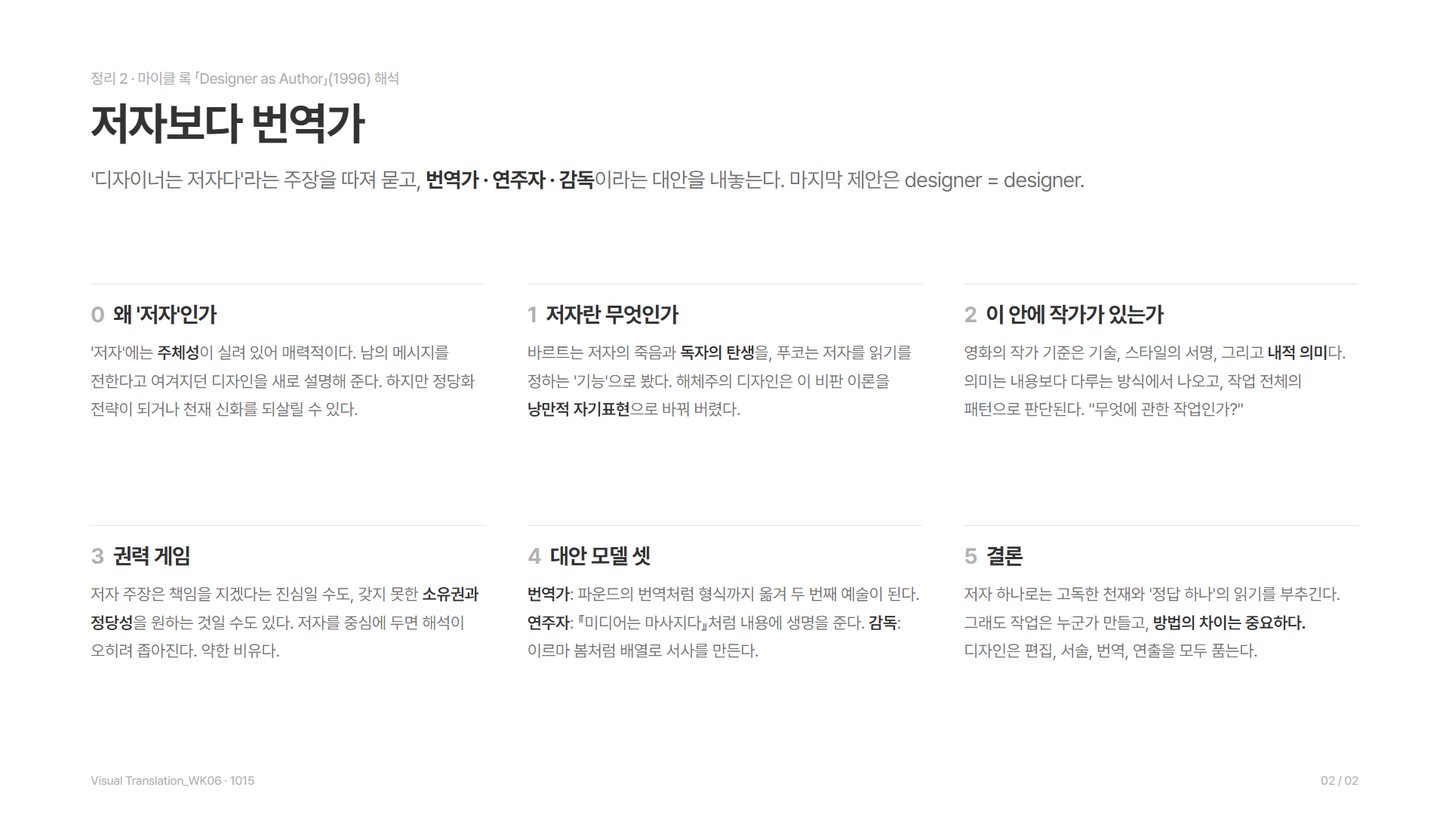
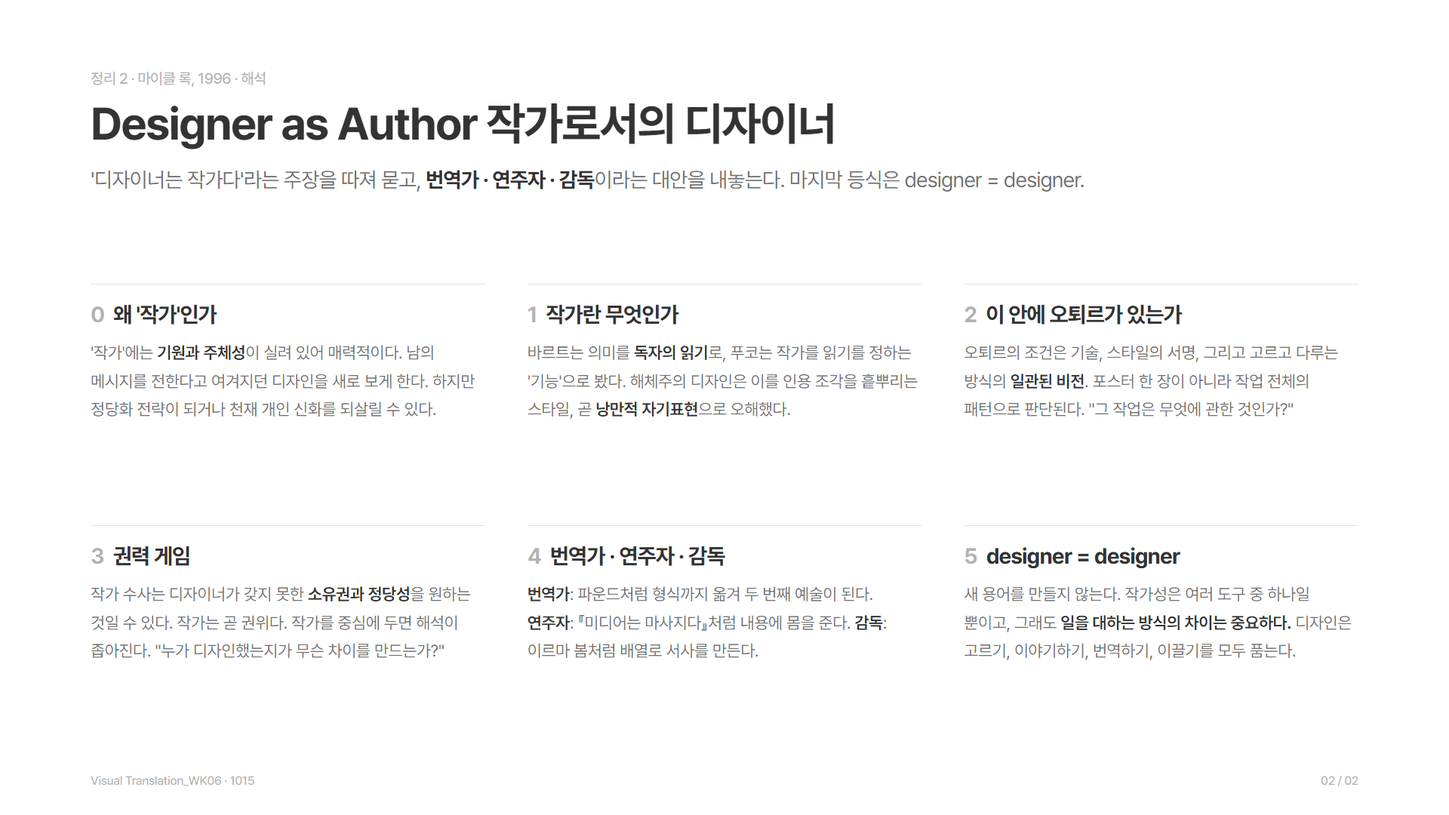
Retitle section 2 as 작가로서의 디자이너 and refine the Rock commentary
Re-read "Designer as Author" and rewrite the section-by-section
commentary with closer detail (McCoy misreading, objectivist minority,
the 1968 dilemma, Sarris's third criterion, power ploys, Rock declining
a new term). Translate author as 작가 and auteur as 오퇴르 throughout,
and re-render the section 2 image.

diff --git a/1015/index.html b/1015/index.html
@@ -23,7 +23,7 @@
 <li><a href="#seo">정리 1 · 서정민</a></li>
 <li><a href="#case">사례 · Kaleidoscope Eyes</a></li>
 <li><a href="#sketch">스케치 피드백</a></li>
-<li><a href="#rock">정리 2 · 마이클 록</a></li>
+<li><a href="#rock">정리 2 · 작가로서의 디자이너</a></li>
 <li><a href="#bridge">두 정리가 만나는 지점</a></li>
 <li><a href="#apply">우리 포스터에 적용</a></li>
 </ol></nav></div>
@@ -41,7 +41,7 @@
 <p class="src">서정민 · 좋은 디자이너의 정의</p>
 </div></div></div></li>
 <li class="row"><button type="button" class="row-title" aria-expanded="false"><span class="bullet" aria-hidden="true"></span><span class="row-label">02 / 디자이너는 번역가다</span></button><div class="row-panel" role="region" aria-label="디자이너는 번역가다"><div class="row-clip"><div class="copy">
-<p>기획이라는 원문은 남이 주지만, 무엇을 읽고 어떤 형식으로 옮길지는 내가 정한다. 파운드처럼 뜻뿐 아니라 형식까지 옮길 때 <span class="k">번역은 두 번째 예술</span>이 된다. 그래서 같은 원문도 100명이 옮기면 100개가 나와야 한다. 수업 이름이 '저자'가 아니라 Visual Translation인 이유다.</p>
+<p>기획이라는 원문은 남이 주지만, 무엇을 읽고 어떤 형식으로 옮길지는 내가 정한다. 파운드처럼 뜻뿐 아니라 형식까지 옮길 때 <span class="k">번역은 두 번째 예술</span>이 된다. 그래서 같은 원문도 100명이 옮기면 100개가 나와야 한다. 수업 이름이 '작가'가 아니라 Visual Translation인 이유다.</p>
 <p class="src">서정민 · 100명이면 100개 / 록 · 번역가 모델</p>
 </div></div></div></li>
 <li class="row"><button type="button" class="row-title" aria-expanded="false"><span class="bullet" aria-hidden="true"></span><span class="row-label">03 / 핵심을 고르는 눈이 관점이다</span></button><div class="row-panel" role="region" aria-label="핵심을 고르는 눈이 관점이다"><div class="row-clip"><div class="copy">
@@ -149,49 +149,53 @@
 </section>
 
 <section class="log-section" id="rock" aria-labelledby="rock-title" data-open="true">
-<h2 class="log-title" id="rock-title"><button type="button" class="section-toggle" aria-expanded="true" aria-controls="rock-body"><span class="log-sign" aria-hidden="true"><img class="log-icon" src="../assets/mark.png" alt="" width="18" height="18"></span><span>정리 2 · 「Designer as Author」</span></button></h2>
+<h2 class="log-title" id="rock-title"><button type="button" class="section-toggle" aria-expanded="true" aria-controls="rock-body"><span class="log-sign" aria-hidden="true"><img class="log-icon" src="../assets/mark.png" alt="" width="18" height="18"></span><span>정리 2 · 「Designer as Author」 작가로서의 디자이너</span></button></h2>
 <div class="section-body" id="rock-body" role="region" aria-labelledby="rock-title"><div class="section-clip"><div class="content">
-<p class="section-meta">마이클 록(2x4 공동 창립자), 1996 · <a class="src-link" href="https://2x4.org/ideas/1996/designer-as-author/">원문 ↗</a> · 원문은 저작권이 있는 글이라 전문 번역 대신 단락별로 내 말로 풀어 정리했다. 정확한 문장은 원문에서 확인한다.</p>
-<ul class="slides" aria-label="마이클 록 에세이 해석 이미지"><li><figure><img src="cards/png/02_rock.png" alt="정리 2 마이클 록 Designer as Author 해석 - 저자보다 번역가" loading="lazy" width="1920" height="1080"></figure></li></ul>
+<p class="section-meta">마이클 록(2x4 공동 창립자) · 1996년 「Graphic Authorship」을 다듬어 2013년 『Multiple Signatures』에 다시 실은 글 · <a class="src-link" href="https://2x4.org/ideas/1996/designer-as-author/">원문 ↗</a><br>원문은 저작권이 있는 글이라 전문 번역 대신 단락별로 내 말로 풀어 정리했다. author는 '작가', 영화 이론의 auteur는 '오퇴르(작가 감독)'로 옮겼고, 바르트와 푸코의 글 제목은 국내에 통용되는 번역을 따랐다.</p>
+<ul class="slides" aria-label="마이클 록 에세이 해석 이미지"><li><figure><img src="cards/png/02_rock.png" alt="정리 2 Designer as Author 작가로서의 디자이너 - 작가보다 번역가" loading="lazy" width="1920" height="1080"></figure></li></ul>
 <ul class="scene-list" aria-label="Designer as Author 단락별 해설">
-<li class="row"><button type="button" class="row-title" aria-expanded="false"><span class="bullet" aria-hidden="true"></span><span class="row-label">0 / 왜 '저자'인가</span></button><div class="row-panel" role="region" aria-label="왜 저자인가"><div class="row-clip"><div class="copy">
-<p>'디자이너는 저자다'라는 말이 유행한다. '저자'에는 <span class="k">스스로 만들어 내는 사람, 주체성</span>이라는 뜻이 실려 있어 매력적이다. 남의 메시지를 전하는 일로 여겨지던 디자인을 새로 설명하는 데도 쓸모 있다.</p>
-<p>하지만 이 말은 정당화 전략이 될 수 있고, '개인 천재' 신화를 되살릴 위험도 있다. 결국 저자를 어떻게 정의하느냐가 누가 저자에 드는지를 정한다.</p>
+<li class="row"><button type="button" class="row-title" aria-expanded="false"><span class="bullet" aria-hidden="true"></span><span class="row-label">0 / 왜 '작가'인가</span></button><div class="row-panel" role="region" aria-label="왜 작가인가"><div class="row-clip"><div class="copy">
+<p>'디자이너는 작가다'라는 말은 디자인 학교와, 디자인과 미술 사이의 경계 지대에서 인기가 있다. '작가'에는 <span class="k">스스로 시작하고 이끄는 사람(기원과 주체성)</span>이라는 뜻이 실려 있어 매력적이다. 남의 메시지를 전한다고만 여겨지던 디자인 과정을 새로 이해하는 길이 될 수도 있다.</p>
+<p>하지만 같은 말이 <span class="k">정당화 전략</span>이 되거나, 최근 디자인 비평이 허물어 온 '천재 개인'이라는 보수적인 생각을 되살릴 수도 있다. 누가 작가 디자이너에 드는지는 '작가'를 어떻게 정의하느냐에 달렸다.</p>
 </div></div></div></li>
-<li class="row"><button type="button" class="row-title" aria-expanded="false"><span class="bullet" aria-hidden="true"></span><span class="row-label">1 / 저자란 무엇인가</span></button><div class="row-panel" role="region" aria-label="저자란 무엇인가"><div class="row-clip"><div class="copy">
-<p>'저자'는 원래 아버지, 창시자, 통치자처럼 <span class="k">권위</span>를 뜻했다.</p>
+<li class="row"><button type="button" class="row-title" aria-expanded="false"><span class="bullet" aria-hidden="true"></span><span class="row-label">1 / 작가란 무엇인가</span></button><div class="row-panel" role="region" aria-label="작가란 무엇인가"><div class="row-clip"><div class="copy">
+<p>'작가(author)'는 원래 아버지, 창시자, 통치자처럼 <span class="k">권위</span>를 뜻하는 말이었다.</p>
 <ul>
-<li>윔샛·비어즐리 「의도의 오류」(1946): 작품만으로 작가의 의도를 알 수 없다.</li>
-<li>바르트 「저자의 죽음」(1968): 저자가 사라지고 <span class="k">독자</span>가 의미를 만든다.</li>
-<li>푸코 「저자란 무엇인가」(1969): 저자는 사람이 아니라 텍스트를 읽는 방식을 정하는 <span class="k">기능</span>이고, 시대마다 다르다.</li>
+<li>윔샛·비어즐리 「의도의 오류」(1946): 작품을 통해 작가의 의도를 알 수는 없다. 작가와 텍스트를 떼어 놓았다.</li>
+<li>바르트 「저자의 죽음」(1968): 의미는 작가의 의도가 아니라 <span class="k">독자의 읽기</span>에서 생긴다.</li>
+<li>푸코 「저자란 무엇인가」(1969): 작가는 텍스트를 읽는 방식을 정하는 <span class="k">기능</span>이고, 그 기능은 시대와 문화마다 다르다.</li>
 </ul>
-<p>고대 경전은 익명이라 오히려 권위가 있었다. 과학은 '발견된 진리'라 익명이 되고, 문학은 저자의 것이 됐다. 1709년 앤 여왕법으로 텍스트는 <span class="k">사유 재산</span>이 됐다.</p>
-<p>캐서린 매코이는 디자이너가 내용의 저자가 되라고 했지만 자주 오해됐다. 바르트의 '인용의 직물'을 조각 텍스트를 흩뿌리는 스타일로 옮긴 해체주의 디자인에 대해, 럽턴과 밀러는 비판 이론이 <span class="k">낭만적 자기표현</span>으로 바뀌었다고 지적했다.</p>
-<p>반대편에는 디자이너가 체계에 <span class="k">복종</span>하고 해석을 삼가는 뮐러브로크만식 객관주의가 있다. 디자이너들은 익명의 조력자이기를 지겨워했지만, 현실의 디자인은 클라이언트가 있고 대부분 협업이다.</p>
+<p>고대 경전은 익명이어서 오히려 권위가 있었다. 1709년 영국 앤 여왕법(최초의 실질적 저작권법)은 작가의 경제적 이익과 텍스트의 온전함을 보호하며 텍스트를 <span class="k">사유 재산</span>으로 만들었고, 이때 근대적 '작가'가 생겼다.</p>
+<p>캐서린 매코이는 디자이너가 문제 해결을 넘어 내용과 비평을 직접 만들라고 했다. 그런데 '해체주의' 디자이너들은 이를 바르트를 흉내 내 인용 조각을 포스터에 흩뿌리는 스타일로 오해했다. 복잡한 이론이 복잡한 디자인을 정당화한다는 논리다. 럽턴과 밀러는 바르트의 비관적 함의가 <span class="k">낭만적 자기표현 이론</span>으로 바뀌었다고 지적했다.</p>
+<p>반대편의 뮐러브로크만, 케페스 같은 객관주의자들은 과학자처럼 이미 있는 질서를 드러내려 했고, 디자이너가 체계에 <span class="k">복종</span>하고 개성과 해석을 거두는 언어를 썼다. 다만 당시에도 그들은 소수였다.</p>
+<p>디자이너들은 '작가 없는 과학적 디자인'에서 벗어나 메시지의 소유권을 주장했는데, 이는 같은 시기 작가를 해체하던 문학 이론과 정반대 방향이었다. 게다가 현실에서는 클라이언트가 특정 정보를 전하라고 돈을 내고, 디자인 대부분은 <span class="k">협업</span>이며, 기술이 기원을 더 흐린다.</p>
 </div></div></div></li>
-<li class="row"><button type="button" class="row-title" aria-expanded="false"><span class="bullet" aria-hidden="true"></span><span class="row-label">2 / 이 안에 작가가 있는가</span></button><div class="row-panel" role="region" aria-label="이 안에 작가가 있는가"><div class="row-clip"><div class="copy">
-<p>권력은 가져 본 적이 있어야 잃을 수 있다. 디자이너는 애초에 그런 권력을 가진 적이 없다.</p>
-<p>영화는 협업 매체라서 1950년대 트뤼포가 '작가 정책'으로 <span class="k">감독을 유일한 저자</span>로 세웠다. 새리스가 정리한 작가 감독의 세 기준:</p>
+<li class="row"><button type="button" class="row-title" aria-expanded="false"><span class="bullet" aria-hidden="true"></span><span class="row-label">2 / 이 안에 오퇴르가 있는가</span></button><div class="row-panel" role="region" aria-label="이 안에 오퇴르가 있는가"><div class="row-clip"><div class="copy">
+<p>바르트가 「저자의 죽음」을 쓴 1968년 파리는 학생과 노동자의 봉기 한가운데였다. 권위를 무너뜨리자는 말이 울림을 가졌지만, 디자이너에겐 딜레마가 있다. 내려놓을 권위를 <span class="k">가져 본 적이 없다.</span></p>
+<p>그보다 10여 년 앞서 트뤼포는 협업의 산물인 영화를 한 예술가의 작품으로 보자는 '작가 정책'을 내놓았다. 감독을 오퇴르로 세워 영화를 예술로 끌어올리는 전략이었다. 앤드루 새리스는 오퇴르의 조건을 셋으로 정리했다.</p>
 <ul>
 <li><span class="k">기술적 역량</span></li>
 <li>여러 작품에 걸친 <span class="k">스타일의 서명</span></li>
-<li>맡겨진 작업 안에서도 일관된 비전으로 만드는 <span class="k">내적 의미</span></li>
+<li>프로젝트를 고르고 다루는 방식에서 드러나는 <span class="k">일관된 비전(내적 의미)</span></li>
 </ul>
-<p>디자이너도 재료를 배정받고 협업자를 이끈다. 그래서 의미는 내용뿐 아니라 <span class="k">다루는 방식(treatment)</span>에서 나와야 한다. 포스터 한 장은 규모가 작으니 <span class="k">오랜 작업 전체의 패턴</span>으로 판단해야 한다. 많은 스타일리스트가 여기서 탈락한다. 질문은 "그 작업은 무엇에 관한 것인가?"다.</p>
-<p>다른 저자 모델로 직접 쓰고 펴내는 디자이너(반데란스의 『에미그레』), 그림책과 그래픽 노블(슈피겔만 『쥐』)이 있다.</p>
+<p>디자이너도 재료를 배정받고, 협업자를 이끌고, 고르지 않은 일들을 오간다. 그러니 내적 의미는 <span class="k">다루는 방식(treatment)</span>에서 나올 수밖에 없다. 기술은 흔하고, 서명까지 갖추면 줄어들고, 세 번째 시험은 알아볼 수 있는 비판적 입장으로 일을 고르고 다루느냐다. 기업 연차보고서도 사회경제적 비판의 시선으로 다룬 얀 반 토른이 예다.</p>
+<p>영화 한 편과 달리 포스터 한 장에는 규모가 없다. 그래서 그래픽 오퇴르는 <span class="k">오랜 작업 전체에 드러나는 패턴</span>으로 판단된다. 감독은 평생 한 편의 영화를 다시 만든다는 르누아르, 어떤 의뢰에서도 계급과 성이라는 관심사로 돌아오는 헬무트 뉴턴처럼. 우아한 스타일리스트 다수가 여기서 탈락한다. 핵심 질문은 "그 작업은 무엇에 관한 것인가?"다.</p>
+<p>새리스가 끝내 '손에 잡히지 않는 개인적 자질'에 기댄 것이 이론의 약점이고, 협업을 설명하지 못해 영화 비평에서도 힘을 잃었다. 그래도 감독을 영화의 중심에 두는 생각은 남았다.</p>
+<p>오퇴르 이론은 디자인에 좁다. 록은 다른 모델을 살핀다. 아티스트 북은 미술 비평, 행동주의 작업은 선전·광고·홍보의 영역이라 제외한다. 남는 것은 <span class="k">출판</span>(형식 실험이 곧 내용인 반데란스의 『에미그레』, 디자인이 주제를 그대로 구현하는 럽턴·밀러의 전시와 책)과 <span class="k">스스로 글을 쓰는 일러스트레이터</span>(슈피겔만 『쥐』, 수 코, 모리스 센닥)다.</p>
 </div></div></div></li>
 <li class="row"><button type="button" class="row-title" aria-expanded="false"><span class="bullet" aria-hidden="true"></span><span class="row-label">3 / 권력 게임</span></button><div class="row-panel" role="region" aria-label="권력 게임"><div class="row-clip"><div class="copy">
-<p>저자론은 디자이너의 좌절을 풀어 주는 처방처럼 홍보된다. 그 밑에는 '저자 디자인이 더 높은 목적을 가진다', '전통적 저자와 같은 지위를 얻는다'는 바람이 깔려 있다.</p>
-<p>현대 이론은 열린 해석을 지향하는데, 저자를 중심에 두면 <span class="k">해석이 오히려 좁아진다.</span> 저자 주장은 책임을 지겠다는 진심일 수도, 갖지 못한 <span class="k">소유권·권력·정당성</span>을 원하는 것일 수도 있다. 그래서 '저자'는 디자인을 설명하기엔 약한 비유다.</p>
+<p>앤 버딕은 『에미그레』에서 디자이너가 조력자가 아니라 작가로서 책임과 목소리를 가져야 한다고 했고, 《Designer as Author: Voices and Visions》 공모는 서비스형 상업 작업을 넘어서는 개인적·사회적·탐구적 작업을 모았다. 록은 여기서 '작가가 된 디자인이 더 높고 순수하다', '작가가 되면 더 존중받는 분야와 동등해진다'는 바람을 읽는다.</p>
+<p>작가 수사는 디자이너가 오래 갖지 못한 <span class="k">소유권과 주체성, 정당성</span>을 얻으려는 시도일 수 있다. 작가(author)는 곧 권위(authority)다. 푸코의 경고처럼 작가를 중심에 두면 기원과 소유가 독자보다 앞서고, <span class="k">해석이 좁아지며</span>, 천재 창조자 신화가 강화된다.</p>
+<p>그래서 작가는 디자인을 설명하는 설득력 있는 비유가 아니고, 진짜 작가 디자인은 예외에 가깝다. 록은 "누가 디자인했는지가 무슨 차이를 만드는가?"를 물으며 영웅 디자이너 서사를 넘어서자고 한다.</p>
 </div></div></div></li>
-<li class="row"><button type="button" class="row-title" aria-expanded="false"><span class="bullet" aria-hidden="true"></span><span class="row-label">4 / 대안 모델 셋</span></button><div class="row-panel" role="region" aria-label="대안 모델 셋"><div class="row-clip"><div class="copy">
-<p><span class="k">번역가</span> - 내용을 한 형식에서 다른 형식으로 옮겨 새 관객에게 닿게 한다. 에즈라 파운드의 한시 번역은 뜻뿐 아니라 시각 형식까지 옮겨 <span class="k">번역 자체가 두 번째 예술</span>이 됐다. 번역은 그 시대와 번역가를 반영한다. 브루스 마우가 영화 『라 제테』를 책으로 옮긴 작업이 예다.</p>
-<p><span class="k">연주자</span> - 배우와 음악가는 대본과 악보를 쓰지 않지만 생명을 준다. 퀜틴 피오레가 디자인한 매클루언의 『미디어는 마사지다』는 그래픽 처리로 책을 세계적 현상으로 만들었다.</p>
-<p><span class="k">감독</span> - 수많은 요소의 배열에서 의미가 나온다. 이르마 봄은 5년 넘게 만든 SHV 기업 책에서 페이지 순서와 이미지 크롭만으로 방대한 자료에 서사를 만들었다.</p>
+<li class="row"><button type="button" class="row-title" aria-expanded="false"><span class="bullet" aria-hidden="true"></span><span class="row-label">4 / 번역가 · 연주자 · 감독</span></button><div class="row-panel" role="region" aria-label="번역가 연주자 감독"><div class="row-clip"><div class="copy">
+<p><span class="k">번역가</span> - 디자인은 내용을 분명하게 하거나 한 형식에서 다른 형식으로 바꿔 새 관객에게 닿게 한다. 에즈라 파운드의 한시 번역은 뜻뿐 아니라 시각적 형식까지 옮겨 그 시대와 번역가가 배어 있는 <span class="k">두 번째 예술</span>이 됐다. 크리스 마커의 영화 『라 제테』를 책으로 옮긴 브루스 마우는 작가가 아니라 형식과 정신을 옮기는 매개자다.</p>
+<p><span class="k">연주자</span> - 배우와 음악가처럼 이미 있는 내용에 몸을 주고 지금 여기에 놓는다. 다다·상황주의·플럭서스, 워런 레러의 공연 타이포그래피, 에드워드 펠라와 데이비드 카슨, 매클루언의 『미디어는 마사지다』를 다룬 퀜틴 피오레, 비어트리스 워드의 글을 다시 해석한 앨런 호리가 예다.</p>
+<p><span class="k">감독</span> - 규모가 클 때 수많은 요소의 배열에서 의미가 나온다. 영화감독처럼 재료와 사진가, 작가, 제작팀을 조율한다. 나이키·코카콜라 캠페인, 다른 디자이너의 프로젝트를 전시처럼 엮은 션 퍼킨스의 『Experience』, 5년 넘게 아카이비스트와 작업해 페이지 순서와 이미지 크롭만으로 서사를 만든 이르마 봄의 SHV 책.</p>
 </div></div></div></li>
-<li class="row"><button type="button" class="row-title" aria-expanded="false"><span class="bullet" aria-hidden="true"></span><span class="row-label">5 / 결론</span></button><div class="row-panel" role="region" aria-label="결론"><div class="row-clip"><div class="copy">
-<p>저자 패러다임 하나만 쓰면 고독한 천재에게 과한 통제권을 주고 '정답 하나'의 읽기를 부추긴다. 그래도 작업은 누군가가 만들고, <span class="k">방법의 차이는 중요하다.</span></p>
-<p>디자인은 이미지 만들기, 편집, 서술, 기록, 연주, 번역, 조직, 연출을 모두 포함한다. 록의 마지막 제안은 "designer = designer"다.</p>
+<li class="row"><button type="button" class="row-title" aria-expanded="false"><span class="bullet" aria-hidden="true"></span><span class="row-label">5 / 결론: designer = designer</span></button><div class="row-panel" role="region" aria-label="결론"><div class="row-clip"><div class="copy">
+<p>록은 새 용어를 만들지 않는다. 세 모델은 디자인의 여러 역할을 하나의 거대한 정의로 묶지 않고 그대로 받아들인다. 작가성은 과정을 다시 생각하게 하는 여러 도구 중 하나일 뿐이고, 그래도 <span class="k">디자이너마다 일을 대하는 방식의 차이는 중요하다.</span></p>
+<p>디자인은 그리기, 고르고 고치기, 이야기하기, 기록하기, 연출하기, 형식 사이를 번역하기, 조직하고 이끌기를 모두 품는다. 그래서 마지막 등식은 "designer = designer"다.</p>
 </div></div></div></li>
 </ul>
 </div></div></div>

diff --git a/1015/cards/index.html b/1015/cards/index.html
@@ -7,7 +7,7 @@
 <link rel="icon" type="image/png" href="../../assets/mark.png">
 <link rel="stylesheet" href="https://cdn.jsdelivr.net/gh/orioncactus/pretendard@v1.3.9/dist/web/variable/pretendardvariable-dynamic-subset.min.css">
 <!--
-  1015 정리 이미지 2장(서정민 강의 · 핵심 인사이트 / 마이클 록 해석). 1920×1080, 토큰은 WK05/deck-full과 같다.
+  1015 정리 이미지 2장(서정민 강의 · 핵심 인사이트 / Designer as Author 작가로서의 디자이너). 1920×1080, 토큰은 WK05/deck-full과 같다.
   보기: 이 페이지 / 한 장만: ?s=2 (PNG 내보내기용)
 -->
 <style>
@@ -69,16 +69,16 @@ html.single .frame.on{display:block}
 </section></div>
 
 <div class="frame"><section class="slide">
-  <p class="label">정리 2 · 마이클 록 「Designer as Author」(1996) 해석</p>
-  <h2 class="heading">저자보다 번역가</h2>
-  <p class="lead">'디자이너는 저자다'라는 주장을 따져 묻고, <b>번역가 · 연주자 · 감독</b>이라는 대안을 내놓는다. 마지막 제안은 designer = designer.</p>
+  <p class="label">정리 2 · 마이클 록, 1996 · 해석</p>
+  <h2 class="heading">Designer as Author 작가로서의 디자이너</h2>
+  <p class="lead">'디자이너는 작가다'라는 주장을 따져 묻고, <b>번역가 · 연주자 · 감독</b>이라는 대안을 내놓는다. 마지막 등식은 designer = designer.</p>
   <div class="grid">
-    <div><span class="title"><i>0</i>왜 '저자'인가</span><p>'저자'에는 <b>주체성</b>이 실려 있어 매력적이다. 남의 메시지를 전한다고 여겨지던 디자인을 새로 설명해 준다. 하지만 정당화 전략이 되거나 천재 신화를 되살릴 수 있다.</p></div>
-    <div><span class="title"><i>1</i>저자란 무엇인가</span><p>바르트는 저자의 죽음과 <b>독자의 탄생</b>을, 푸코는 저자를 읽기를 정하는 '기능'으로 봤다. 해체주의 디자인은 이 비판 이론을 <b>낭만적 자기표현</b>으로 바꿔 버렸다.</p></div>
-    <div><span class="title"><i>2</i>이 안에 작가가 있는가</span><p>영화의 작가 기준은 기술, 스타일의 서명, 그리고 <b>내적 의미</b>다. 의미는 내용보다 다루는 방식에서 나오고, 작업 전체의 패턴으로 판단된다. "무엇에 관한 작업인가?"</p></div>
-    <div><span class="title"><i>3</i>권력 게임</span><p>저자 주장은 책임을 지겠다는 진심일 수도, 갖지 못한 <b>소유권과 정당성</b>을 원하는 것일 수도 있다. 저자를 중심에 두면 해석이 오히려 좁아진다. 약한 비유다.</p></div>
-    <div><span class="title"><i>4</i>대안 모델 셋</span><p><b>번역가</b>: 파운드의 번역처럼 형식까지 옮겨 두 번째 예술이 된다. <b>연주자</b>: 『미디어는 마사지다』처럼 내용에 생명을 준다. <b>감독</b>: 이르마 봄처럼 배열로 서사를 만든다.</p></div>
-    <div><span class="title"><i>5</i>결론</span><p>저자 하나로는 고독한 천재와 '정답 하나'의 읽기를 부추긴다. 그래도 작업은 누군가 만들고, <b>방법의 차이는 중요하다.</b> 디자인은 편집, 서술, 번역, 연출을 모두 품는다.</p></div>
+    <div><span class="title"><i>0</i>왜 '작가'인가</span><p>'작가'에는 <b>기원과 주체성</b>이 실려 있어 매력적이다. 남의 메시지를 전한다고 여겨지던 디자인을 새로 보게 한다. 하지만 정당화 전략이 되거나 천재 개인 신화를 되살릴 수 있다.</p></div>
+    <div><span class="title"><i>1</i>작가란 무엇인가</span><p>바르트는 의미를 <b>독자의 읽기</b>로, 푸코는 작가를 읽기를 정하는 '기능'으로 봤다. 해체주의 디자인은 이를 인용 조각을 흩뿌리는 스타일, 곧 <b>낭만적 자기표현</b>으로 오해했다.</p></div>
+    <div><span class="title"><i>2</i>이 안에 오퇴르가 있는가</span><p>오퇴르의 조건은 기술, 스타일의 서명, 그리고 고르고 다루는 방식의 <b>일관된 비전</b>. 포스터 한 장이 아니라 작업 전체의 패턴으로 판단된다. "그 작업은 무엇에 관한 것인가?"</p></div>
+    <div><span class="title"><i>3</i>권력 게임</span><p>작가 수사는 디자이너가 갖지 못한 <b>소유권과 정당성</b>을 원하는 것일 수 있다. 작가는 곧 권위다. 작가를 중심에 두면 해석이 좁아진다. "누가 디자인했는지가 무슨 차이를 만드는가?"</p></div>
+    <div><span class="title"><i>4</i>번역가 · 연주자 · 감독</span><p><b>번역가</b>: 파운드처럼 형식까지 옮겨 두 번째 예술이 된다. <b>연주자</b>: 『미디어는 마사지다』처럼 내용에 몸을 준다. <b>감독</b>: 이르마 봄처럼 배열로 서사를 만든다.</p></div>
+    <div><span class="title"><i>5</i>designer = designer</span><p>새 용어를 만들지 않는다. 작가성은 여러 도구 중 하나일 뿐이고, 그래도 <b>일을 대하는 방식의 차이는 중요하다.</b> 디자인은 고르기, 이야기하기, 번역하기, 이끌기를 모두 품는다.</p></div>
   </div>
   <div class="foot"><span>Visual Translation_WK06 · 1015</span><span>02 / 02</span></div>
 </section></div>

diff --git a/1015/README.md b/1015/README.md
@@ -22,7 +22,7 @@
 ![핵심 인사이트](cards/png/01_insights.png)
 
 1. **좋은 디자이너란.** 세상에 대한 이해, 관점, 방법론, 디자인에 대한 생각을 소화하고 이해한 것을 바탕으로, 자신의 의도를 담아 해석된 결과물을 세상에 내놓는 사람. 정제된 작업과 표현적인 작업을 오가도, 그 사이를 관통하는 관점이 있다. (서정민 · 좋은 디자이너의 정의)
-2. **디자이너는 번역가다.** 기획이라는 원문은 남이 주지만, 무엇을 읽고 어떤 형식으로 옮길지는 내가 정한다. 파운드처럼 형식까지 옮길 때 번역은 두 번째 예술이 된다. 같은 원문도 100명이 옮기면 100개가 나와야 한다. 수업 이름이 '저자'가 아니라 Visual Translation인 이유다. (서정민 · 100명이면 100개 / 록 · 번역가 모델)
+2. **디자이너는 번역가다.** 기획이라는 원문은 남이 주지만, 무엇을 읽고 어떤 형식으로 옮길지는 내가 정한다. 파운드처럼 형식까지 옮길 때 번역은 두 번째 예술이 된다. 같은 원문도 100명이 옮기면 100개가 나와야 한다. 수업 이름이 '작가'가 아니라 Visual Translation인 이유다. (서정민 · 100명이면 100개 / 록 · 번역가 모델)
 3. **핵심을 고르는 눈이 관점이다.** 의미는 주제보다 다루는 방식에서 나온다. 주제는 고르지 못해도 무엇을 핵심으로 볼지는 고를 수 있다. '눈'이 아니라 '눈을 뜨는 순간'을 고른 것처럼, 고르는 순간이 다르면 다른 시각 언어가 나온다. (서정민 · 개안 / 록 · treatment)
 4. **관점에서 출발한다.** 레퍼런스에서 출발하면 남의 관점으로 결과물만 얻는다. 과정을 건너뛰면 관점이 쌓이지 않고, 작업들은 '나'를 중심으로 이어지지 않는 동떨어진 섬이 된다. 출발점이 내 관점이어야 시각 언어도 내 것이 된다. (서정민 · 낙하산과 섬 / 록 · 해체주의가 이론을 스타일로 베낀 일)
 5. **스타일은 관점이 아니다.** 겉모양의 서명만 반복하면 오퍼레이터에 머문다. 고유한 시각 언어는 문제를 보는 태도와 방법론의 일관성에서 나오고, 작업 전체의 패턴으로 드러난다. "그 작업은 무엇에 관한 것인가?"에 답할 수 있어야 한다. (서정민 · 일관된 관점 / 록 · 내적 의미)
@@ -89,64 +89,61 @@
 
 ---
 
-## 정리 2. 「Designer as Author」 (마이클 록, 1996)
+## 정리 2. 「Designer as Author」 작가로서의 디자이너 (마이클 록, 1996)
 
 - 원문: [2x4.org/ideas/1996/designer-as-author](https://2x4.org/ideas/1996/designer-as-author/)
-- 마이클 록은 뉴욕 디자인 스튜디오 2x4의 공동 창립자다. 1996년에 쓴 「Graphic Authorship」을 다듬어 2013년 『Multiple Signatures』에 다시 실었다.
-- **전문 번역 대신 단락별 해설로 정리했다.** 원문은 저작권이 있는 글이고 이 저장소는 public이라, 전문 번역본(2차 저작물)을 올리지 않는다. 아래는 원문의 흐름을 따라 내 말로 풀어 쓴 것이다. 정확한 문장은 원문 링크로 확인한다.
+- 마이클 록은 뉴욕 디자인 스튜디오 2x4의 공동 창립자다. 1996년의 「Graphic Authorship」을 다듬어 2013년 『Multiple Signatures』에 다시 실었다.
+- **전문 번역 대신 단락별 해설로 정리했다.** 원문은 저작권이 있는 글이고 이 저장소는 public이라, 전문 번역본(2차 저작물)을 올리지 않는다. 원문의 흐름을 따라 내 말로 풀어 썼으니 정확한 문장은 원문 링크로 확인한다.
+- 용어: author는 **작가**, 영화 이론의 auteur는 **오퇴르(작가 감독)** 로 옮겼다. 바르트와 푸코의 글 제목은 국내에 통용되는 번역(「저자의 죽음」, 「저자란 무엇인가」)을 따랐다.
 
-![정리 2 마이클 록 해석](cards/png/02_rock.png)
+![정리 2 Designer as Author 작가로서의 디자이너](cards/png/02_rock.png)
 
 ### 단락별 해설
 
-**0. 들어가며: 왜 '저자'인가**
-- 디자인 학교와 업계 주변부에서 '디자이너는 저자다'라는 말이 유행한다. '저자'에는 **스스로 만들어 내는 사람, 주체성**이라는 뜻이 실려 있어 매력적이다.
-- 디자인은 보통 남의 메시지를 전달하는 일로 여겨지므로, 저자 개념은 디자인 과정을 새로 설명하는 데 쓸모가 있다.
-- 하지만 이 말은 디자인을 정당화하려는 전략이 될 수 있고, 최근 디자인 비평이 비판해 온 '개인 천재' 신화를 되살릴 위험도 있다. 결국 **저자를 어떻게 정의하느냐**가 누가 저자에 들고 저자의 디자인이 어떤 모습인지를 정한다.
+**0. 들어가며: 왜 '작가'인가**
+- '디자이너는 작가다'라는 말은 디자인 학교와, 디자인과 미술 사이의 경계 지대에서 인기가 있다. '작가'에는 **스스로 시작하고 이끄는 사람(기원과 주체성)** 이라는 뜻이 실려 있어 매력적이다.
+- 남의 메시지를 전한다고만 여겨지던 디자인 과정을 새로 이해하는 길이 될 수 있다.
+- 하지만 같은 말이 **정당화 전략**이 되거나, 최근 디자인 비평이 허물어 온 '천재 개인'이라는 보수적인 생각을 되살릴 수도 있다. 누가 작가 디자이너에 드는지는 '작가'를 어떻게 정의하느냐에 달렸다.
 
-**1. 저자란 무엇인가**
-- '저자(author)'는 원래 글쓰기와 무관하게 아버지, 창시자, 통치자처럼 **권위**를 뜻했다.
+**1. 작가란 무엇인가**
+- '작가(author)'는 원래 아버지, 창시자, 통치자처럼 **권위**를 뜻하는 말이었다.
 - 문학 이론의 흐름:
-  - 윔샛과 비어즐리 「의도의 오류」(1946): 작품만 보고 작가의 의도를 알 수는 없다. 저자와 텍스트를 떼어 놓았다.
-  - 롤랑 바르트 「저자의 죽음」(1968): 저자가 사라지고 **독자**가 의미를 만든다.
-  - 미셸 푸코 「저자란 무엇인가」(1969): '저자'는 사람이 아니라 텍스트를 읽는 방식을 규정하는 **기능**이며, 시대와 문화에 따라 달라진다.
-- 푸코가 정리한 역사: 고대 경전은 저자가 없거나 여러 사람이 모인 이름이었고, 익명성이 오히려 권위였다. 르네상스까지 과학 텍스트는 저자의 이름이 있어야 믿을 수 있었다. 과학적 방법이 생긴 뒤 과학은 '발견된 진리'라서 익명이 되고(별에 이름은 붙여도 소유하진 못한다), 반대로 문학은 저자의 것이 됐다. 위험한 글을 쓰면 저자가 책임을 져야 했기에 저자와 텍스트가 묶였다.
-- 1709년 영국 앤 여왕법(초기 저작권법)으로 텍스트는 **사유 재산**이 됐다. 이후 낭만주의 비평은 작가의 삶과 의도에서 의미를 찾았다.
-- 프레드릭 제임슨은 포스트모던을 '중심이 해체된 주체'로 봤다. 출처에서 떨어져 나온 텍스트는 **독자 중심의 디자인**과 잘 맞는다.
-- 캐서린 매코이는 디자이너가 문제 해결을 넘어 내용과 비평의 저자가 되라고 했다. 록은 이 말이 자주 오해됐다고 본다. 바르트의 '인용의 직물'을 포스터에 조각 텍스트를 흩뿌리는 스타일로 옮긴 '해체주의' 디자인이 그 예다. 엘런 럽턴과 애벗 밀러는 바르트의 비판적 사상이 **낭만적인 자기표현 이론**으로 바뀌어 버렸다고 지적했다.
-- 반대편에는 뮐러브로크만, 케페스, 게르스트너처럼 과학자가 자연의 질서를 드러내듯 디자인의 숨은 질서를 찾은 '객관주의'가 있다. 특히 뮐러브로크만의 글은 디자이너가 체계에 **복종**하고 해석을 삼가는 언어로 쓰였다.
-- 디자이너들은 익명의 조력자이기를 지겨워하며 메시지의 소유권 쪽으로 옮겨 갔다. 하지만 현실에서 클라이언트는 특정 정보를 전하라고 돈을 내고, 대부분의 디자인은 **협업**이며, 기술이 기원을 더 흐린다.
+  - 윔샛·비어즐리 「의도의 오류」(1946): 작품을 통해 작가의 의도를 알 수는 없다. 작가와 텍스트를 떼어 놓았다.
+  - 롤랑 바르트 「저자의 죽음」(1968): 의미는 작가의 의도가 아니라 **독자의 읽기**에서 생긴다.
+  - 미셸 푸코 「저자란 무엇인가」(1969): 바르트에 대한 응답. 작가는 텍스트를 읽는 방식을 정하는 **기능**이고, 그 기능은 시대와 문화마다 다르다.
+- 고대 경전은 익명이어서 오히려 권위가 있었다. 1709년 영국 앤 여왕법(최초의 실질적 저작권법)은 작가의 경제적 이익과 텍스트의 온전함을 보호하며 텍스트를 **사유 재산**으로 만들었고, 이때 근대적 '작가'가 생겼다.
+- 캐서린 매코이는 디자이너가 문제 해결을 넘어 내용과 비평을 직접 만들라고 했다. 그런데 '해체주의' 디자이너들은 이를 바르트를 흉내 내 인용 조각을 포스터에 흩뿌리는 스타일로 오해했다. 복잡한 이론이 복잡한 디자인을 정당화한다는 논리다. 엘런 럽턴과 애벗 밀러는 바르트의 비관적 함의가 **낭만적 자기표현 이론**으로 바뀌었다고 지적했다.
+- 반대편의 뮐러브로크만, 케페스 같은 객관주의자들은 과학자처럼 이미 있는 질서를 드러내려 했고, 디자이너가 체계에 **복종**하고 개성과 해석을 거두는 언어를 썼다(게르스트너는 디자인 요소를 더 쪼갤 수 없는 '원자'로 봤다). 다만 당시에도 그들은 소수였다.
+- 디자이너들은 '작가 없는 과학적 디자인'에서 벗어나 메시지의 소유권을 주장했는데, 이는 같은 시기 작가를 해체하던 문학 이론과 정반대 방향이었다. 게다가 현실에서는 클라이언트가 특정 정보를 전하라고 돈을 내고, 디자인 대부분은 **협업**이며, 기술이 기원을 더 흐린다.
 
-**2. 이 안에 작가(auteur)가 있는가**
-- 바르트가 「저자의 죽음」을 쓴 1968년은 파리 시위의 해였다. 그런데 디자이너에겐 딜레마가 있다. 권력은 가져 본 적이 있어야 잃을 수 있는데, 디자이너는 애초에 그런 권력을 가진 적이 없다.
-- 영화 이론과의 비교: 영화는 협업 매체라서, 1950년대 트뤼포가 '작가 정책(la politique des auteurs)'으로 **감독을 유일한 저자로 세웠다.** 대중 영화를 예술로 끌어올리려는 정당화 전략이었다.
-- 앤드루 새리스가 정리한 작가 감독의 세 기준:
+**2. 이 안에 오퇴르가 있는가**
+- 바르트가 「저자의 죽음」을 쓴 1968년 파리는 학생과 노동자의 봉기 한가운데였다. 권위를 무너뜨리자는 말이 울림을 가졌지만, 디자이너에겐 딜레마가 있다. 내려놓을 권위를 **가져 본 적이 없다.**
+- 그보다 10여 년 앞서 트뤼포는 협업의 산물인 영화를 한 예술가의 작품으로 보자는 '작가 정책'을 내놓았다. 감독을 오퇴르로 세워 영화를 예술로 끌어올리는 전략이었다.
+- 앤드루 새리스가 정리한 오퇴르의 세 조건:
   1. **기술적 역량**
   2. 여러 작품에 걸친 **스타일의 서명**
-  3. 스튜디오가 맡긴 작업 안에서도 일관된 비전으로 만들어 내는 **내적 의미**
-- 디자이너도 감독처럼 재료를 '배정'받고, 협업자를 이끌고, 성격이 다른 프로젝트를 오간다. 그래서 의미는 내용뿐 아니라 **다루는 방식(treatment)** 에서 나와야 한다.
-- 디자인에 적용하면: 기술은 흔하다. 스타일의 서명까지 더하면 줄어든다. 가장 어려운 건 **내적 의미**다. 기업 보고서에서도 비판적 사회경제적 관점을 지킨 얀 반 토른이 예다.
-- 포스터 한 장은 영화 한 편 같은 규모가 없으므로, 그래픽 작가는 **오랜 기간의 작업 전체에서 드러나는 패턴**으로 판단해야 한다. "감독은 평생 한 편의 영화를 변주한다"는 르누아르의 말, 계급과 성을 계속 다룬 헬무트 뉴턴이 예다.
-- 그래서 많은 스타일리스트가 탈락한다. 질문은 이것이다: **"그 작업은 무엇에 관한 것인가?"**
-- 다른 저자 모델: 직접 쓰고 펴내는 디자이너(루디 반데란스의 『에미그레』는 고르기·쓰기·타이포그래피가 하나가 된 순수한 예, 럽턴과 밀러의 전시·책 작업), 그림책과 그래픽 노블(아트 슈피겔만 『쥐』, 모리스 센닥 등)은 그동안 저자 논의에서 간과됐다.
+  3. 프로젝트를 고르고 다루는 방식에서 드러나는 **일관된 비전(내적 의미)**
+- 디자이너도 재료를 배정받고, 협업자를 이끌고, 고르지 않은 일들을 오간다. 그러니 내적 의미는 **다루는 방식(treatment)** 에서 나올 수밖에 없다. 기술은 흔하고, 서명까지 갖추면 줄어들고, 세 번째 시험은 알아볼 수 있는 비판적 입장으로 일을 고르고 다루느냐다. 기업 연차보고서도 사회경제적 비판의 시선으로 다룬 얀 반 토른이 예다.
+- 영화 한 편과 달리 포스터 한 장에는 규모가 없다. 그래서 그래픽 오퇴르는 **오랜 작업 전체에 드러나는 패턴**으로 판단된다. 감독은 평생 한 편의 영화를 다시 만든다는 르누아르, 어떤 의뢰에서도 계급과 성이라는 관심사로 돌아오는 헬무트 뉴턴처럼.
+- 우아한 스타일리스트 다수가 여기서 탈락한다. 핵심 질문은 **"그 작업은 무엇에 관한 것인가?"** 다.
+- 새리스가 끝내 '손에 잡히지 않는 개인적 자질'에 기댄 것이 이론의 약점이고, 협업을 설명하지 못해 영화 비평에서도 힘을 잃었다. 그래도 감독을 영화의 중심에 두는 생각은 남았다.
+- 오퇴르 이론은 디자인에 좁다. 록은 다른 모델을 살핀다. 아티스트 북은 미술 비평, 행동주의 작업은 선전·광고·홍보의 영역이라 제외한다. 남는 것은 **출판**(형식 실험이 곧 내용인 루디 반데란스의 『에미그레』, 디자인이 주제를 그대로 구현하는 럽턴·밀러의 전시와 책)과 **스스로 글을 쓰는 일러스트레이터**(아트 슈피겔만 『쥐』, 수 코, 모리스 센닥)다.
 
 **3. 권력 게임**
-- 저자론은 디자이너의 좌절을 풀어 주는 처방처럼 홍보된다. 앤 버딕은 디자이너가 저자로서 책임과 목소리를 가져야 한다고 했고, '서비스형 상업 작업을 넘어서는' 작업을 모으는 공모도 열렸다.
-- 하지만 이 수사에는 '저자가 된 디자인이 더 높은 목적을 가진다', '디자이너도 전통적 저자와 같은 지위를 얻는다'는 바람이 깔려 있다.
-- 현대 이론은 열린 해석을 지향하는데, 저자를 중심에 두면 **해석이 오히려 좁아진다.** 푸코도 저자를 '의미를 제한하는 장치'로 봤다.
-- 저자 주장은 책임을 지겠다는 진심일 수도 있지만, 디자이너가 갖지 못한 **소유권과 권력, 정당성**을 원하는 것일 수도 있다. 디자이너를 영웅으로 세우는 것은 지난 50년의 '영웅 디자이너' 역사를 반복한다.
-- 그래서 록은 '저자'가 디자인을 설명하기엔 **약한 비유**라고 본다. 진정한 의미의 저자 디자인은 드물다.
+- 앤 버딕은 『에미그레』에서 디자이너가 조력자가 아니라 작가로서 책임과 목소리를 가져야 한다고 했고, 《Designer as Author: Voices and Visions》 공모는 서비스형 상업 작업을 넘어서는 개인적·사회적·탐구적 작업을 모았다. 록은 여기서 '작가가 된 디자인이 더 높고 순수하다', '작가가 되면 더 존중받는 분야와 동등해진다'는 바람을 읽는다.
+- 작가 수사는 디자이너가 오래 갖지 못한 **소유권과 주체성, 정당성**을 얻으려는 시도일 수 있다. 작가(author)는 곧 권위(authority)다.
+- 푸코의 경고처럼 작가를 중심에 두면 기원과 소유가 독자보다 앞서고, **해석이 좁아지며**, 천재 창조자 신화가 강화된다.
+- 그래서 작가는 디자인을 설명하는 설득력 있는 비유가 아니고, 진짜 작가 디자인은 예외에 가깝다. 록은 "누가 디자인했는지가 무슨 차이를 만드는가?"를 물으며 영웅 디자이너 서사를 넘어서자고 한다.
 
-**4. 대안 모델 셋**
-- **번역가로서의 디자이너**: 디자인은 내용을 한 형식에서 다른 형식으로 옮겨 새 관객에게 닿게 하는 일이다. 모델은 에즈라 파운드의 한시 번역이다. 뜻뿐 아니라 시각적 형식까지 옮겨서 **번역 자체가 두 번째 예술**이 됐다. 번역은 그 시대와 번역가를 반영하므로 같은 원문도 시대마다 다르게 옮겨진다. 브루스 마우가 크리스 마커의 영화 『라 제테』를 책으로 옮긴 작업이 예다. 마우는 저자가 아니라 매개자로서 형식과 정신을 옮겼다.
-- **연주자로서의 디자이너**: 배우와 음악가는 대본과 악보를 쓰지 않지만 그것에 생명을 준다. 같은 작품이 무수히 다르게 실현된다. 디자이너도 그래픽 장치로 내용을 지금 여기에 '현전'하게 만든다. 퀜틴 피오레가 디자인한 마셜 매클루언의 『미디어는 마사지다』가 핵심 예로, 그래픽 처리가 책을 세계적 현상으로 만들었다.
-- **감독으로서의 디자이너**: 규모에 기대는 모델. 수많은 요소의 배열에서 의미가 나온다(대형 캠페인, 대중 잡지, 아주 큰 책). 영화감독처럼 작가·사진가·아티스트를 조율한다. 이르마 봄이 5년 넘게 아카이비스트와 만든 SHV 기업 책이 가장 분명한 예다. 페이지 순서와 이미지 크롭만으로 방대한 자료에서 서사를 만들었다.
+**4. 번역가 · 연주자 · 감독**
+- **번역가**: 디자인은 내용을 분명하게 하거나 한 형식에서 다른 형식으로 바꿔 새 관객에게 닿게 한다. 에즈라 파운드의 한시 번역은 뜻뿐 아니라 시각적 형식까지 옮겨, 그 시대와 번역가가 배어 있는 **두 번째 예술**이 됐다. 크리스 마커의 영화 『라 제테』를 책으로 옮긴 브루스 마우는 작가가 아니라 형식과 정신을 옮기는 매개자다.
+- **연주자**: 배우와 음악가처럼 이미 있는 내용에 몸을 주고 지금 여기에 놓는다. 다다·상황주의·플럭서스, 워런 레러의 공연 타이포그래피, 에드워드 펠라와 데이비드 카슨, 마셜 매클루언의 『미디어는 마사지다』를 다룬 퀜틴 피오레, 비어트리스 워드의 글을 다시 해석한 앨런 호리가 예다.
+- **감독**: 규모가 클 때 수많은 요소의 배열에서 의미가 나온다. 영화감독처럼 재료와 사진가, 작가, 제작팀을 조율한다. 나이키·코카콜라 캠페인, 다른 디자이너의 프로젝트를 전시처럼 엮은 션 퍼킨스의 『Experience』, 5년 넘게 아카이비스트와 작업해 페이지 순서와 이미지 크롭만으로 서사를 만든 이르마 봄의 SHV 책.
 
-**5. 결론**
-- 세 모델은 디자인의 여러 활동을 하나의 거대한 정의로 묶지 않고 그대로 받아들인다.
-- 저자 패러다임 하나만 쓰면 역사·문화를 지운 읽기, 고독한 천재에게 과한 통제권, '정답 하나'의 읽기를 부추긴다.
-- 그래도 작업은 누군가가 만들고, **방법의 차이는 중요하다.** 저자성은 과정을 다시 생각하게 하는 여러 장치 중 하나일 뿐이다.
-- 디자인은 이미지 만들기, 편집, 서술, 기록, 연주, 번역, 조직, 연출을 모두 포함한다. 록의 마지막 제안은 "designer = designer"다.
+**5. 결론: designer = designer**
+- 록은 새 용어를 만들지 않는다. 세 모델은 디자인의 여러 역할을 하나의 거대한 정의로 묶지 않고 그대로 받아들인다.
+- 작가성은 과정을 다시 생각하게 하는 여러 도구 중 하나일 뿐이고, 그래도 **디자이너마다 일을 대하는 방식의 차이는 중요하다.**
+- 디자인은 그리기, 고르고 고치기, 이야기하기, 기록하기, 연출하기, 형식 사이를 번역하기, 조직하고 이끌기를 모두 품는다. 그래서 마지막 등식은 "designer = designer"다.
 
 ---
 
@@ -159,7 +156,7 @@
 | 포트폴리오의 일관된 관점, 파편화된 결과물 | 작가는 작업 전체의 패턴으로 판단된다 | LO3 일관성 |
 | 표현과 기술을 반복하는 오퍼레이터 | 스타일의 서명만 있고 내적 의미가 없는 스타일리스트 | LO3 |
 | '눈'이 아니라 '눈을 뜨는 순간' | 의미는 내용보다 다루는 방식에서 | LO1 해석 |
-| 핵심 맥락이 맞으면 표현은 개인의 몫 | 저자성은 여러 장치 중 하나, 방법의 차이가 중요 | LO1 → LO2 |
+| 핵심 맥락이 맞으면 표현은 개인의 몫 | 작가성은 여러 도구 중 하나, 방법의 차이가 중요 | LO1 → LO2 |
 
 ## 피드백 / 고민 — 「연결에 스며든 사랑」에 적용하면
 - **키워드가 명사로 멈춰 있지 않은가?** 우리 키워드 영향 · 흔적 · 경계 · 겹침은 '눈'처럼 전시와 관련은 있지만, 이 전시**만의** 순간을 말하는지 다시 볼 것. '개안'처럼 **순간이나 상태 변화**로 바꿔 보면? 예: 겹침 → '겹치기 시작하는 순간', 흔적 → '떠난 뒤에 남은 것' (LO1 OE3)

diff --git a/INSIGHTS.md b/INSIGHTS.md
@@ -31,5 +31,5 @@
 - **키워드는 명사가 아니라 순간이다.** 《Kaleidoscope Eyes》(리움, 2022) 포스터에서 '눈'은 관련은 있어도 전시만의 핵심을 말하지 못했다. 아무것도 없는 곳에서 작품이 보이는 순간, 곧 **'개안(눈을 뜨는 순간)'**을 키워드로 삼았다. 무슨 이야기를 전할지 먼저 정하면 핵심 단어가 나온다 (서정민).
 - **포스터는 한순간이다.** 설명적인 내러티브는 촌스럽다. 정지된 한 장으로 말하므로 핵심 맥락을 고르는 일이 가장 중요하다 (서정민).
 - **스케치는 형태만이 아니다.** 색만, 구긴 종이 한 장만 올려도 스케치다. 한 키워드를 해석부터 여러 갈래로 바꿔 보고(차가움 = 얼음·물·태도·쇠의 감각), 간격·밀도·크기·질감·재료로도 그린다 (서정민).
-- **'저자'보다 '번역가'.** 마이클 록 「Designer as Author」(1996): 디자이너=저자라는 주장은 권력과 정당성에 대한 욕망일 수 있고, 저자 중심은 해석을 오히려 좁힌다. 대안은 번역가·연주자·감독 모델. 파운드의 번역처럼 좋은 번역은 '두 번째 예술'이 된다.
+- **'작가'보다 '번역가'.** 마이클 록 「Designer as Author」 작가로서의 디자이너(1996): 디자이너=작가라는 주장은 권력과 정당성에 대한 욕망일 수 있고, 작가 중심은 해석을 오히려 좁힌다. 대안은 번역가·연주자·감독 모델. 파운드의 번역처럼 좋은 번역은 '두 번째 예술'이 된다.
 - **관점은 작업 하나가 아니라 작업 전체의 패턴에서 보인다.** 스타일의 서명만으로는 부족하다. "그 작업은 무엇에 관한 것인가?"에 답할 내적 의미가 있어야 한다. 의미는 주제보다 **다루는 방식**에서 나온다 (록).

diff --git a/README.md b/README.md
@@ -41,7 +41,7 @@ VT/
 | [1009](1009/) | 날씨 UI 레퍼런스로 커버 시안 3종(카드·곡선·열화상), 외곽선 스크립트 타이틀 |
 | [1011](1011/) | 앨범 소개 수정(왜 21도인가, 같은 숫자 다른 감각), 트랙리스트 변경 |
 | [1013](1013/) | 전시 포스터 「연결에 스며든 사랑」 주제의식 토론과 확정(스며든 넓이), 제출 슬라이드 ①~⑤, 참여 작가(니키 리 · Karel Martens · 김애란), 웹페이지(임시) |
-| [1015](1015/) | 서정민 강의(번역가로서의 디자이너, 레퍼런스의 위험, 《Kaleidoscope Eyes》 사례), 마이클 록 「Designer as Author」 해설과 인사이트 · [웹페이지](https://yongzu.github.io/VT/1015/) |
+| [1015](1015/) | 서정민 강의(번역가로서의 디자이너, 레퍼런스의 위험, 《Kaleidoscope Eyes》 사례), 마이클 록 「Designer as Author」 작가로서의 디자이너 해설과 인사이트 · [웹페이지](https://yongzu.github.io/VT/1015/) |
 
 ## 참고
 - GitHub에는 100MB를 넘는 파일을 올릴 수 없다. 큰 PSD는 Git LFS를 쓴다.
